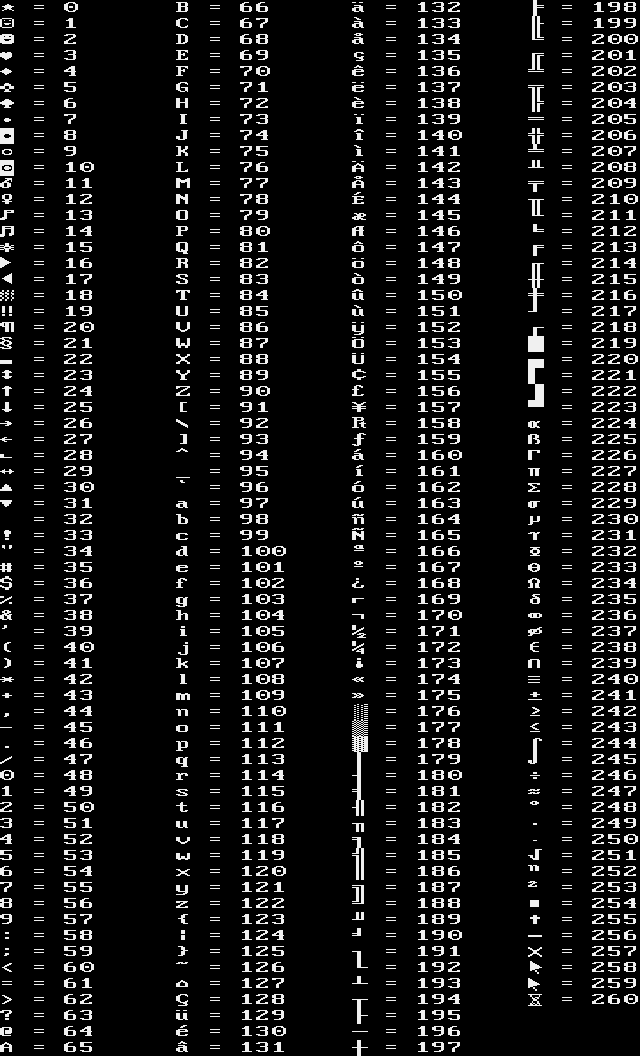
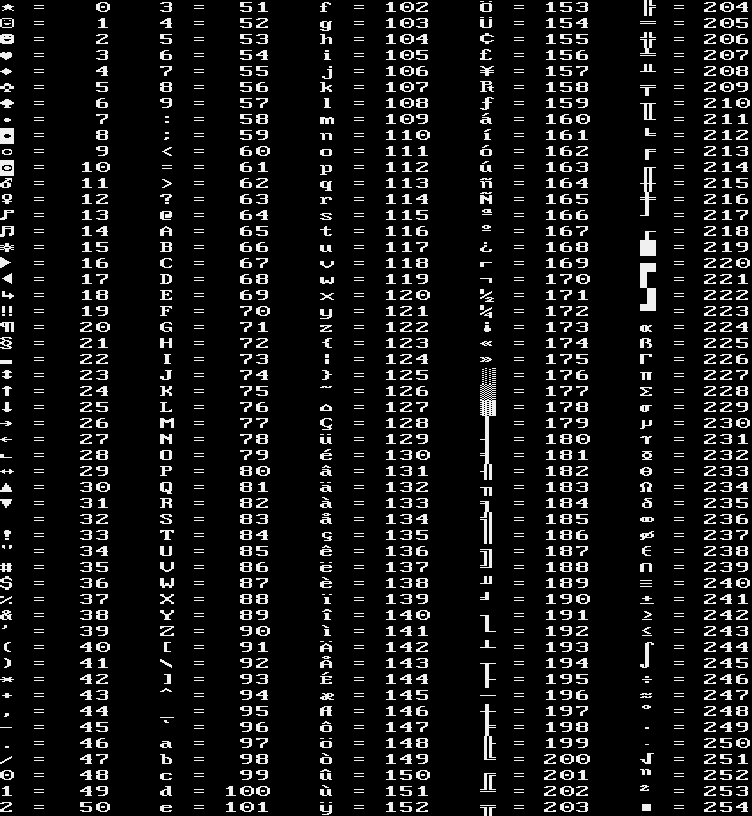
update

diff --git a/src/kaba4cow/ascii/drawing/glyphs/Glyphs.java b/src/kaba4cow/ascii/drawing/glyphs/Glyphs.java
@@ -4,6 +4,7 @@ public final class Glyphs {
 
 	private static int numGlyphs = 0;
 
+	// Printable glyphs
 	public static final char STAR = (char) numGlyphs++;
 	public static final char WHITE_SMILING_FACE = (char) numGlyphs++;
 	public static final char BLACK_SMILING_FACE = (char) numGlyphs++;
@@ -260,11 +261,13 @@ public final class Glyphs {
 	public static final char SUPERSCRIPT_TWO = (char) numGlyphs++;
 	public static final char BLACK_SQUARE = (char) numGlyphs++;
 	public static final char CROSS = (char) numGlyphs++;
-	public static final char SYSTEM_HIDE_WINDOW = (char) numGlyphs++;
-	public static final char SYSTEM_CLOSE_WINDOW = (char) numGlyphs++;
-	public static final char SYSTEM_CURSOR = (char) numGlyphs++;
-	public static final char SYSTEM_CURSOR_GRABBED = (char) numGlyphs++;
-	public static final char SYSTEM_CURSOR_WAITING = (char) numGlyphs++;
+
+	// System glyphs
+	public static final char SYSTEM_HIDE_WINDOW = (char) (numGlyphs + 0);
+	public static final char SYSTEM_CLOSE_WINDOW = (char) (numGlyphs + 1);
+	public static final char SYSTEM_CURSOR = (char) (numGlyphs + 2);
+	public static final char SYSTEM_CURSOR_GRABBED = (char) (numGlyphs + 3);
+	public static final char SYSTEM_CURSOR_WAITING = (char) (numGlyphs + 4);
 
 	private Glyphs() {
 

diff --git a/src/kaba4cow/ascii/core/Display.java b/src/kaba4cow/ascii/core/Display.java
@@ -315,7 +315,7 @@ public final class Display {
 				currentChar = cursorChar;
 				frame.colors[i] = 0x000FFF;
 			}
-			if (currentChar >= Glyphs.numGlyphs())
+			if (currentChar >= Glyphs.numGlyphs() && i != mouseIndex)
 				continue;
 
 			screenX = CHAR_SIZE * (i % WIDTH);
@@ -423,6 +423,14 @@ public final class Display {
 
 	public static int getHeight() {
 		return HEIGHT;
+	}
+
+	public static int getDisplayWidth() {
+		return DISPLAY_WIDTH;
+	}
+
+	public static int getDisplayHeight() {
+		return DISPLAY_HEIGHT;
 	}
 
 	public static int getCharSize() {
@@ -565,7 +573,7 @@ public final class Display {
 				return;
 			}
 
-			if (prevColorTemp != color) {
+			if (prevColorTemp != color || image == null) {
 				bColorTemp = (color >> 12) & 0xFFF;
 				brTemp = (bColorTemp >> 8) & 0xF;
 				bgTemp = (bColorTemp >> 4) & 0xF;
@@ -580,7 +588,7 @@ public final class Display {
 			}
 			prevColorTemp = color;
 
-			if (prevTileX != tileX || prevTileY != tileY) {
+			if (prevTileX != tileX || prevTileY != tileY || image == null) {
 				image = images[tileX][tileY];
 				xOffsetTemp = CHAR_SIZE * tileX;
 				yOffsetTemp = CHAR_SIZE * tileY;

diff --git a/src/kaba4cow/test/Test.java b/src/kaba4cow/test/Test.java
@@ -100,6 +100,23 @@ public class Test implements MainProgram {
 		Engine.init("Test", 60);
 		Display.createWindowed(70, 40);
 		Engine.start(new Test());
+
+//		int addLength = 3;
+//		int length = "c = 000".length() + addLength;
+//		int width = 5;
+//		int height = Glyphs.numGlyphs() / width;
+//
+//		Frame frame = new Frame(length * width - addLength, height);
+//		Drawer.setFrame(frame);
+//		int i = 0;
+//		for (int x = 0; x < width; x++)
+//			for (int y = 0; y < height; y++) {
+//				char c = (char) i;
+//				Drawer.drawString(x * length, y, false, c + String.format(" = %3d", i), 0x000FFF);
+//				i++;
+//			}
+//		Drawer.resetFrame();
+//		Display.saveImage(frame, new File("glyphs.png"));
 	}
 
 }

diff --git a/src/kaba4cow/ascii/input/Mouse.java b/src/kaba4cow/ascii/input/Mouse.java
@@ -179,6 +179,8 @@ public final class Mouse implements MouseListener, MouseMotionListener, MouseWhe
 	@Override
 	public void mouseMoved(MouseEvent e) {
 		int newX = e.getX();
+		if (newX >= Display.getDisplayWidth())
+			newX = Display.getDisplayWidth() - 1;
 		int newY = e.getY() + Display.getCursorOffset();
 		cursorDelta.x = newX - cursorPosition.x;
 		cursorDelta.y = newY - cursorPosition.y;
